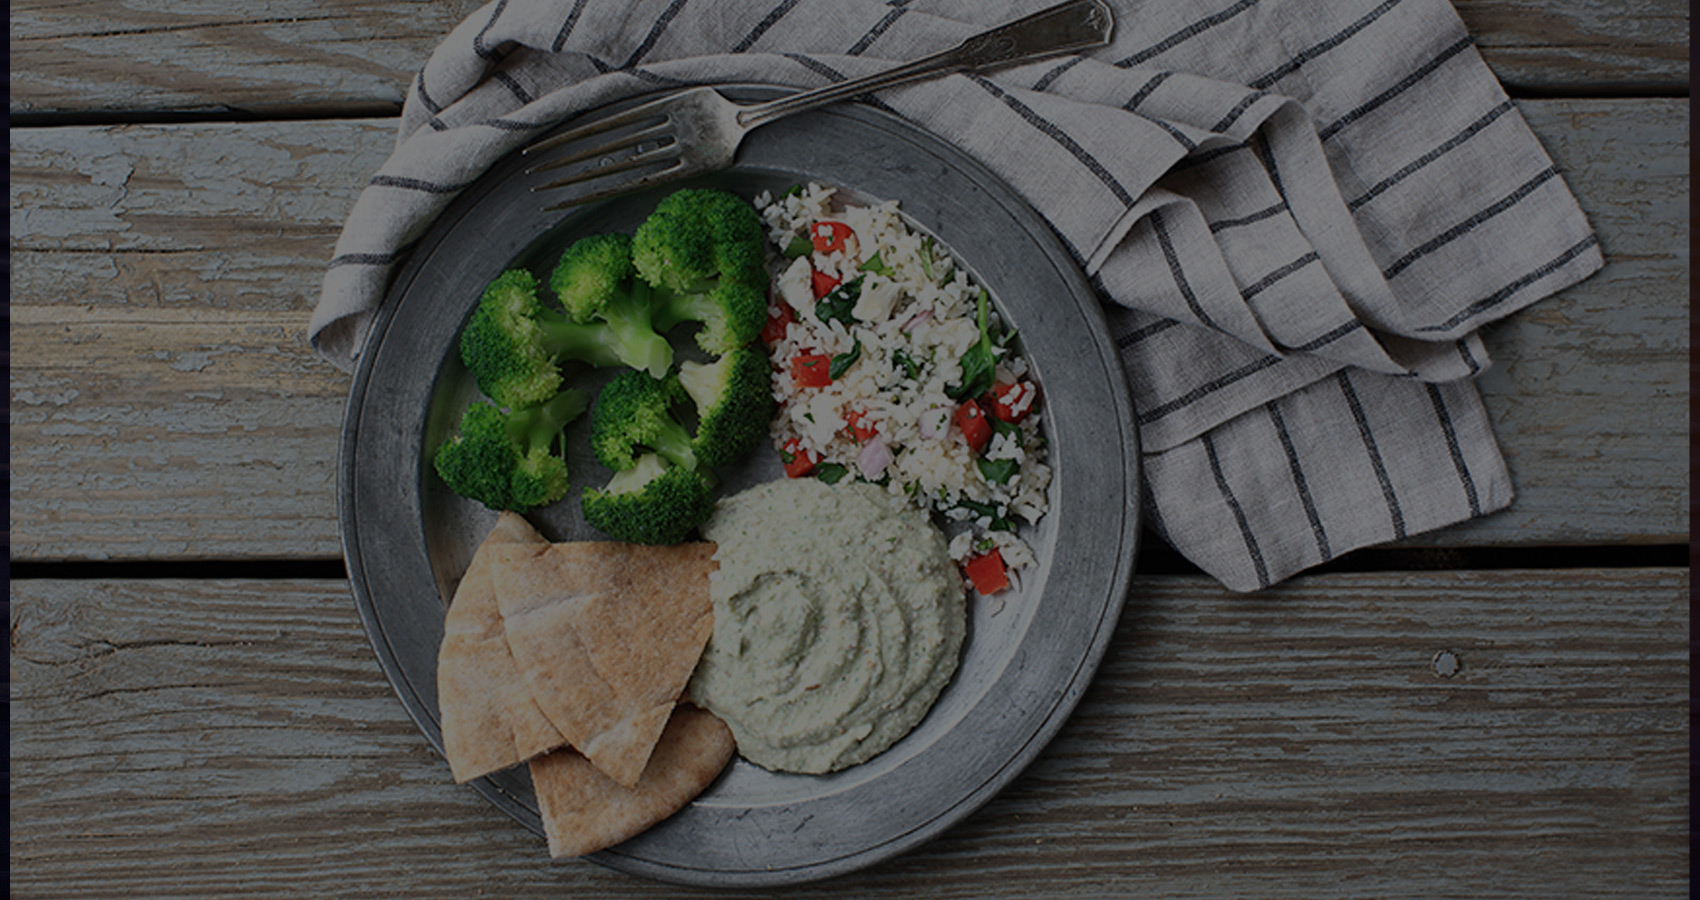
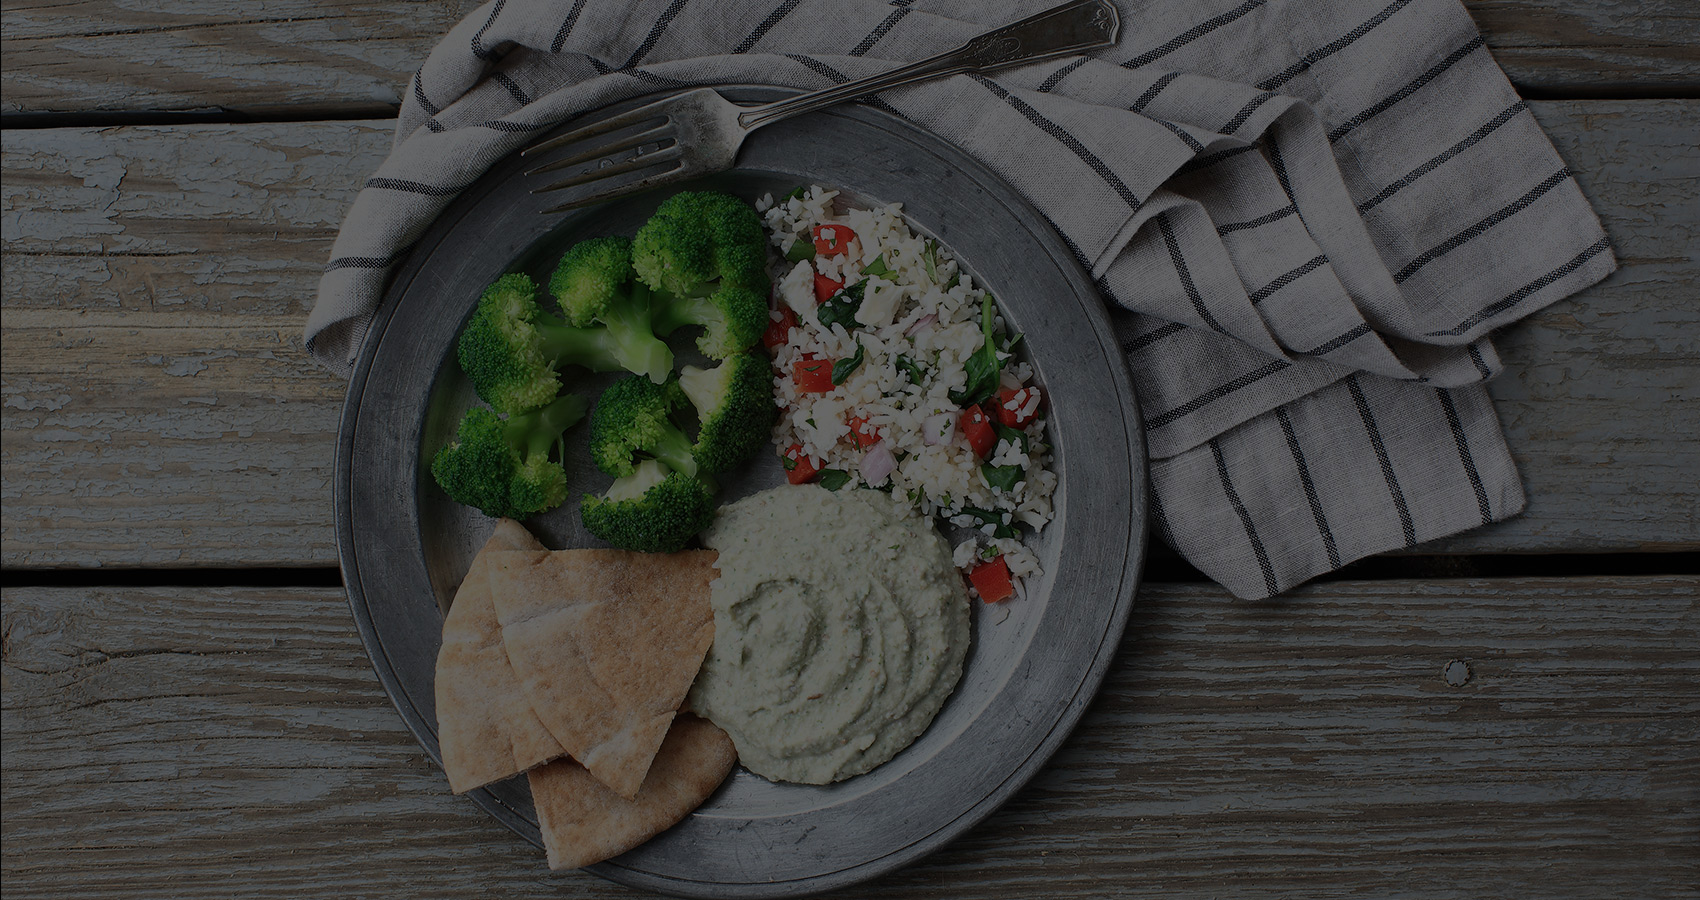
Changed out the bg images to hi res and made minor color and verbiage adjustments

diff --git a/app/_includes/section/hero.html b/app/_includes/section/hero.html
@@ -2,9 +2,9 @@
   <div class="item good-measure">
     <div class="slide-content">
       <h1 class="hero-headline">ALL IN GOOD MEASURE</h1>
-      <h2 class="hero-subhead">Commit to Lean in 2015 and rely on 360-degree support from
+      <h2 class="hero-subhead">Commit to Lean and rely on 360-degree support from
       Good Measure Meals™ to achieve a healthier lifestyle!</h2>
-      <a href="#lets-go" title="Let's Go" class="btn scroll-link">SIGN UP FOR FREE COACHING SESSION</a>
+      <a href="#lets-go" title="Let's Go" class="btn scroll-link">SIGN UP FOR FREE</a>
     </div>
   </div>
 
@@ -12,7 +12,7 @@
     <div class="slide-content">
       <h1 class="hero-headline">JOIN THE MOVEMENT</h1>
       <h2 class="hero-subhead">Strike a balance of physical activity and a well-rounded diet, then strike a pose in celebration of a whole new you!</h2>
-      <a href="#lets-go" title="Let's Go" class="btn scroll-link">SIGN UP FOR FREE COACHING SESSION</a>
+      <a href="#lets-go" title="Let's Go" class="btn scroll-link">SIGN UP FOR FREE</a>
     </div>
   </div>
 
@@ -20,7 +20,7 @@
     <div class="slide-content">
       <h1 class="hero-headline">CULINARY ART + NUTRITION SCIENCE</h1>
       <h2 class="hero-subhead">With our nutritional coaching, Registered Dietitians will lead experiences to build a healthy foundation for you!</h2>
-      <a href="#lets-go" title="Let's Go" class="btn scroll-link">SIGN UP FOR FREE COACHING SESSION</a>
+      <a href="#lets-go" title="Let's Go" class="btn scroll-link">SIGN UP FOR FREE</a>
     </div>
   </div>
 
@@ -28,7 +28,7 @@
     <div class="slide-content">
       <h1 class="hero-headline">Commit To Lean</h1>
       <h2 class="hero-subhead">Trim down the hesitation with a network of personalized support. Travel light on your journey to health. You can do this!</h2>
-      <a href="#lets-go" title="Let's Go" class="btn scroll-link">SIGN UP FOR FREE COACHING SESSION</a>
+      <a href="#lets-go" title="Let's Go" class="btn scroll-link">SIGN UP FOR FREE</a>
     </div>
   </div>
 </section>

diff --git a/app/styles/_global.scss b/app/styles/_global.scss
@@ -13,8 +13,8 @@ body {
 
 .header-primary {
   @include clearfix;
-  background-color: $green-dark;
-  background-color: rgba($green-dark, .65);
+  background-color: $black;
+  background-color: rgba($black, .65);
   padding: .5em 0 0;
   position: fixed;
   left: 0;

diff --git a/app/styles/pages/_sneak-peek.scss b/app/styles/pages/_sneak-peek.scss
@@ -1,6 +1,6 @@
 .sneak-peek {
   @include transition(bottom 0.25s linear);
-  background: $green;
+  background: $green-dark;
   border-top: 1px solid $white;
   bottom: 0;
   color: $white;
